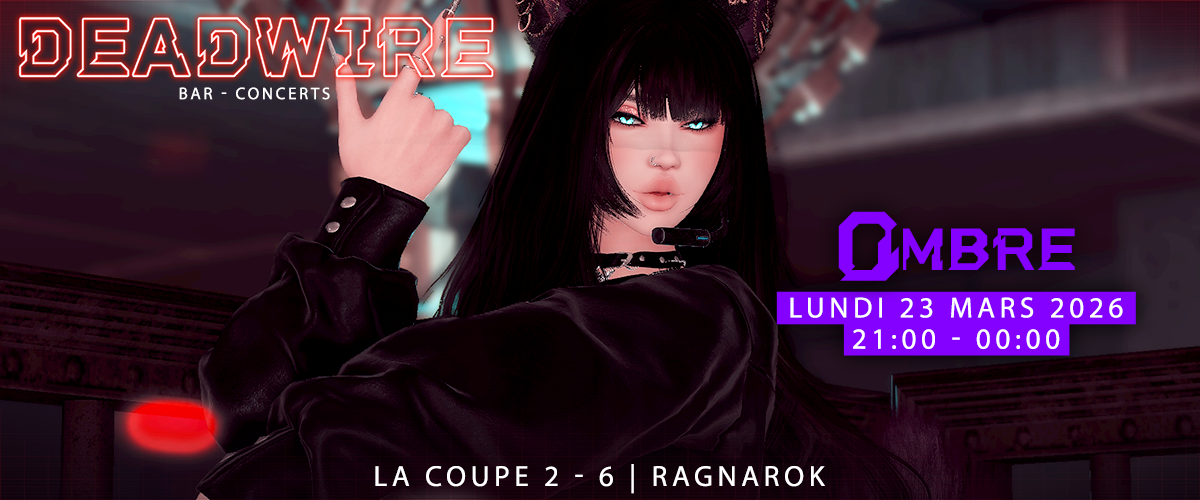
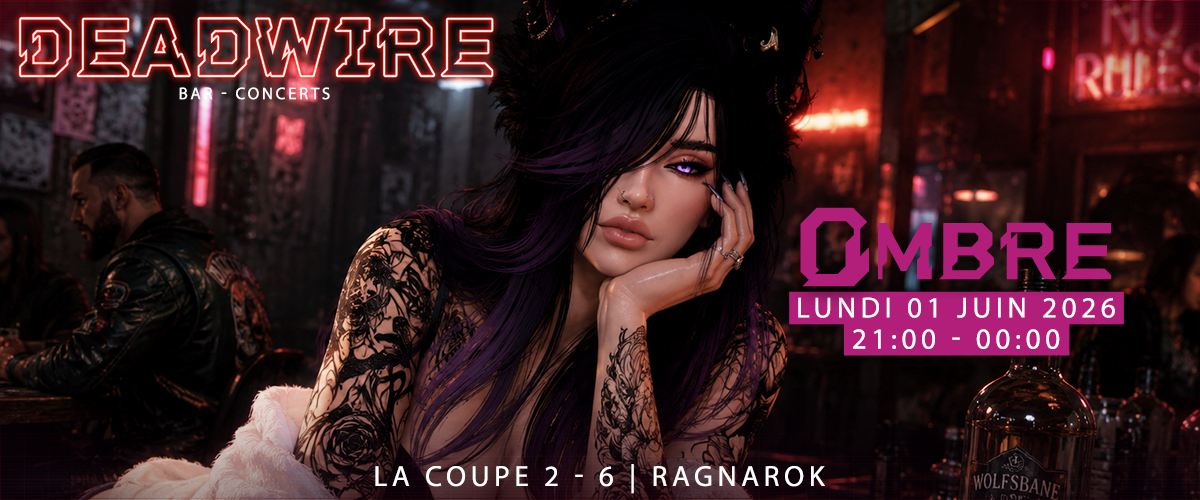
maj

diff --git a/equipe/index.html b/equipe/index.html
@@ -201,6 +201,16 @@
             <h2 class="profile__name">Lane</h2>
             <div class="profile__role">Photographe</div>
           </article>
+
+          <article class="profile">
+            <div class="mediaFrame" style="min-height: 220px; margin-bottom: 14px;">
+              <a href="#" data-lightbox aria-label="Voir le portrait de Straya">
+                <img class="mediaFrame__slot" src="../media/straya.png" alt="Portrait de Straya" />
+              </a>
+            </div>
+            <h2 class="profile__name">Straya</h2>
+            <div class="profile__role">Danseuse</div>
+          </article>
         </div>
       </div>
     </section>
